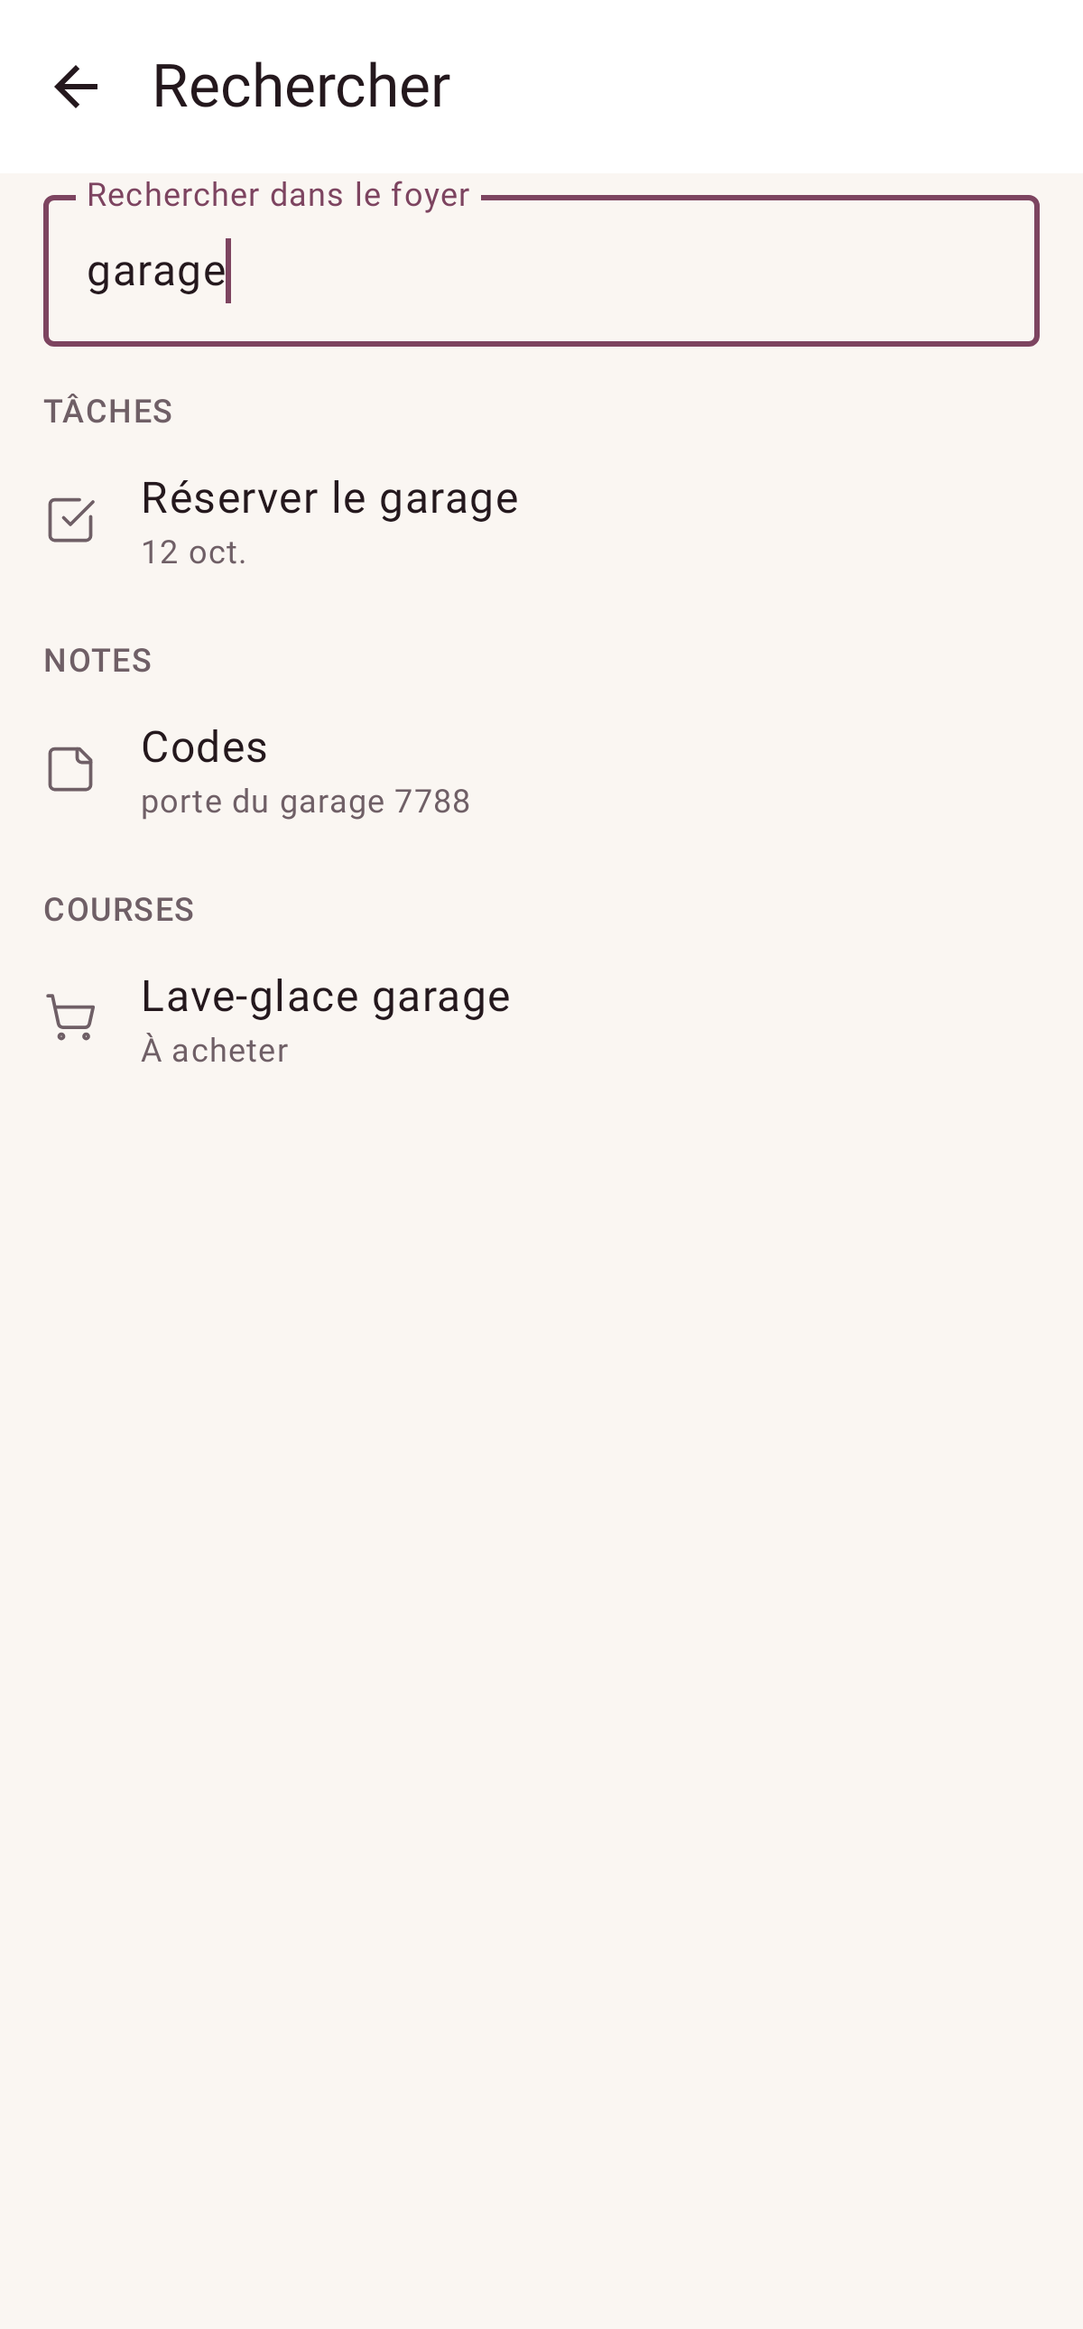
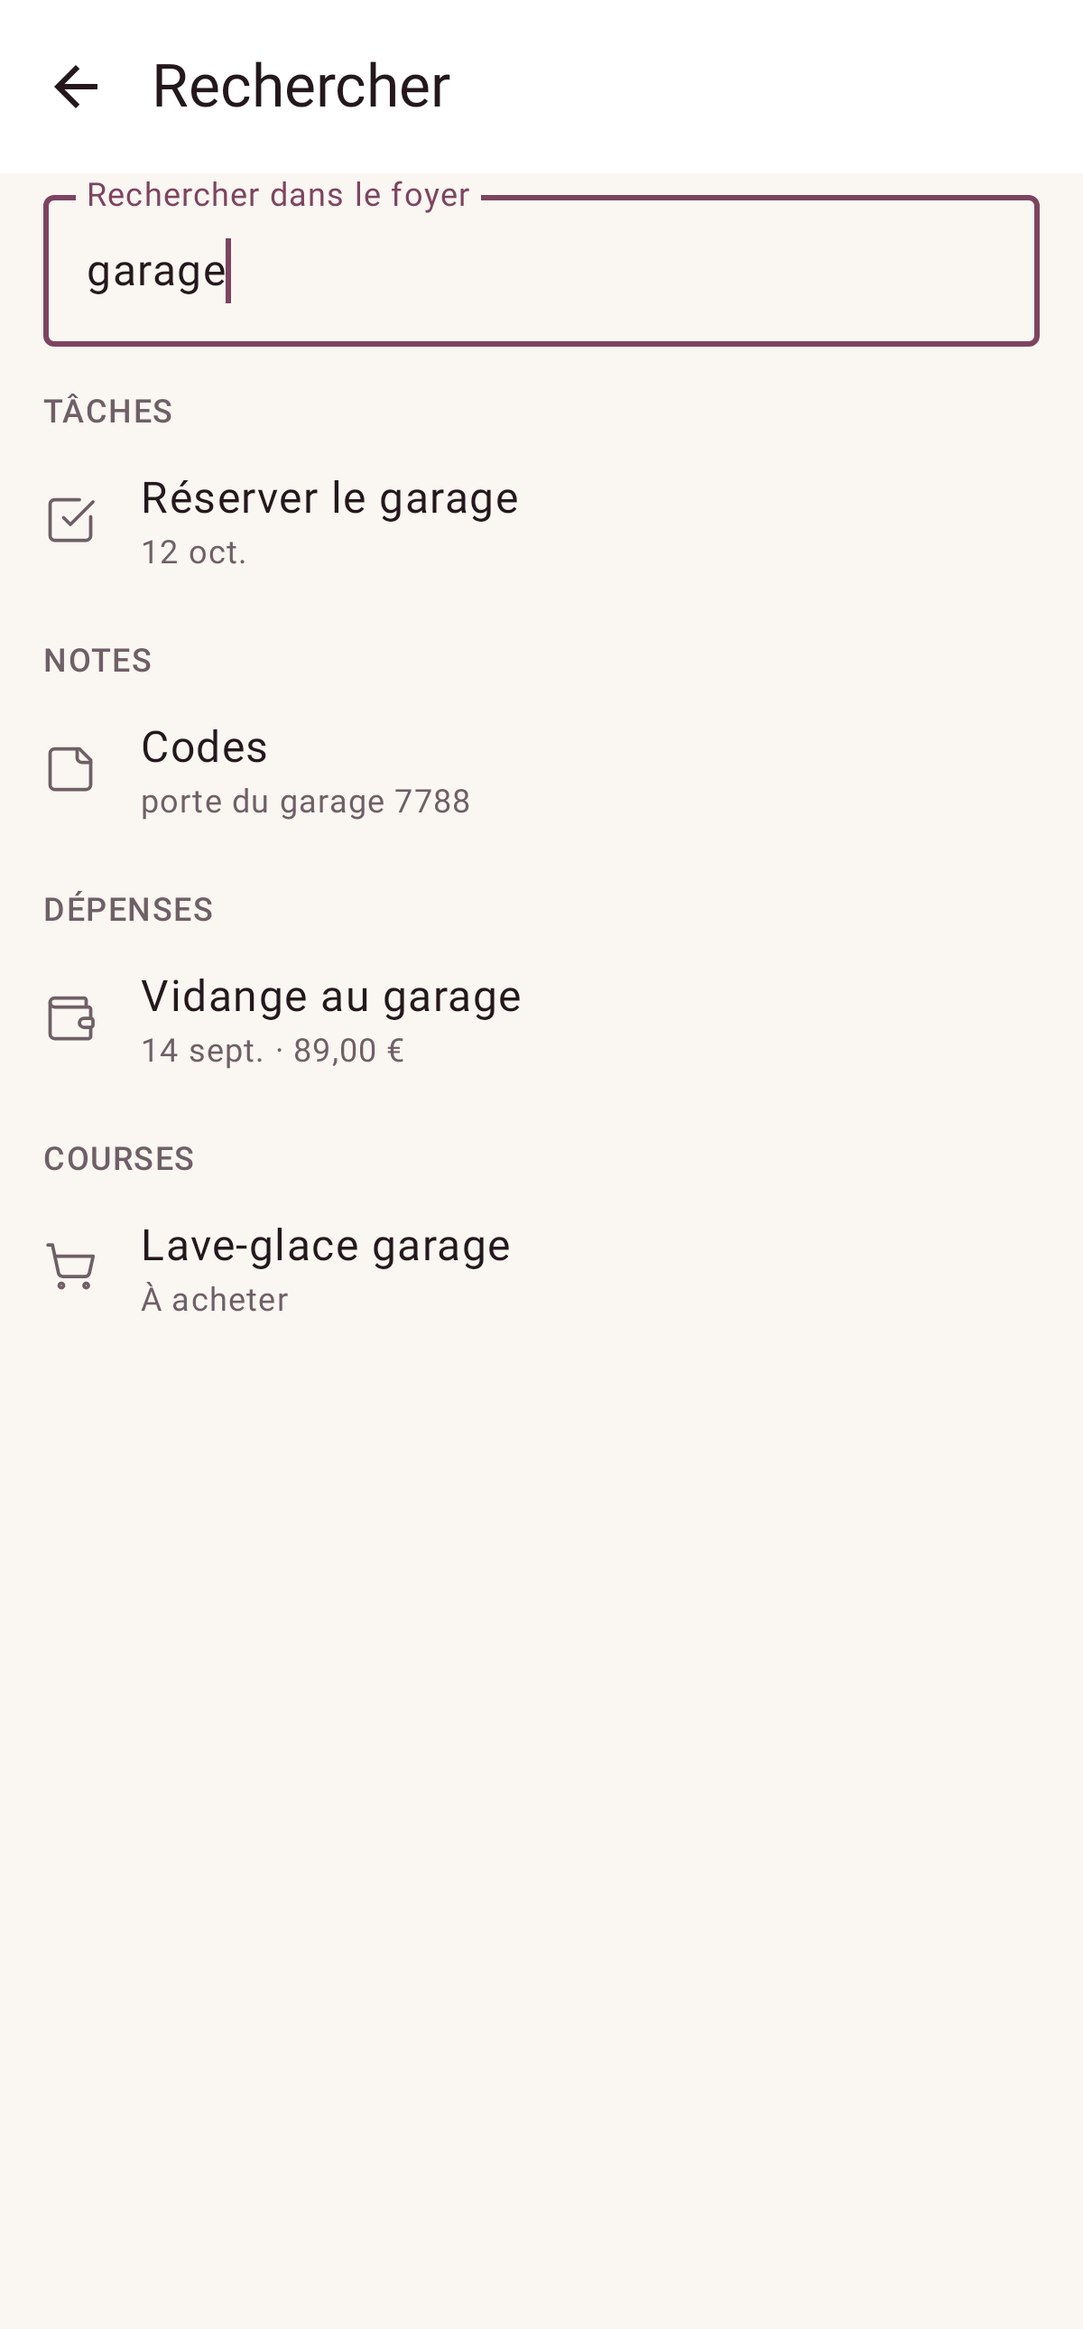
Audit du 9 octobre : icônes des dates, mois de la dépense, focus après « / »
- Android : icône au trait par type de date importante (liste et « Dates à venir »).
- Android : une dépense trouvée par la recherche ouvre son mois (argument month).
- Web : recherche ouverte avec « / » sans focus : le focus revient au bouton « Rechercher ».

Claude-Session: https://claude.ai/code/session_015VHKVTPtEGJEjvAhjHkTaK

diff --git a/apps/android/app/src/main/java/app/tandem/foyer/ui/dates/DatesScreen.kt b/apps/android/app/src/main/java/app/tandem/foyer/ui/dates/DatesScreen.kt
@@ -14,6 +14,7 @@ import androidx.compose.foundation.layout.heightIn
 import androidx.compose.foundation.layout.imePadding
 import androidx.compose.foundation.layout.navigationBarsPadding
 import androidx.compose.foundation.layout.padding
+import androidx.compose.foundation.layout.size
 import androidx.compose.foundation.lazy.LazyColumn
 import androidx.compose.foundation.lazy.items
 import androidx.compose.foundation.rememberScrollState
@@ -49,6 +50,7 @@ import androidx.compose.runtime.remember
 import androidx.compose.runtime.setValue
 import androidx.compose.ui.Alignment
 import androidx.compose.ui.Modifier
+import androidx.compose.ui.res.painterResource
 import androidx.compose.ui.res.pluralStringResource
 import androidx.compose.ui.res.stringResource
 import androidx.compose.ui.semantics.heading
@@ -129,6 +131,24 @@ private data class Draft(
     val repeatsYearly: Boolean,
     val remindDaysBefore: Int,
 )
+
+/** Icône du type de date, comme sur le site (décorative : le type est écrit à côté). */
+@Composable
+internal fun DateKindIcon(kind: String) {
+    Icon(
+        painterResource(
+            when (kind) {
+                "BIRTHDAY" -> R.drawable.ic_drawer_cake
+                "ANNIVERSARY" -> R.drawable.ic_date_anniversary
+                "MAINTENANCE" -> R.drawable.ic_date_maintenance
+                else -> R.drawable.ic_date_other
+            },
+        ),
+        contentDescription = null,
+        tint = MaterialTheme.colorScheme.onSurfaceVariant,
+        modifier = Modifier.size(20.dp),
+    )
+}
 
 @Composable
 private fun kindLabel(kind: String) = stringResource(
@@ -243,7 +263,8 @@ fun DatesScreen(vm: DatesViewModel, onBack: () -> Unit, onMessage: (String) -> U
                     enabled = !state.offline,
                     modifier = Modifier.fillMaxWidth(),
                 ) {
-                    Row(Modifier.padding(16.dp), verticalAlignment = Alignment.CenterVertically) {
+                    Row(Modifier.padding(16.dp), verticalAlignment = Alignment.CenterVertically, horizontalArrangement = Arrangement.spacedBy(12.dp)) {
+                        DateKindIcon(d.kind)
                         Column(Modifier.weight(1f), verticalArrangement = Arrangement.spacedBy(2.dp)) {
                             Text(d.title, style = MaterialTheme.typography.titleMedium, fontWeight = FontWeight.Medium)
                             Text(
@@ -413,7 +434,8 @@ fun UpcomingDates(remote: DatesRemote, refreshKey: Any?, onOpen: () -> Unit) {
     OutlinedCard(onClick = onOpen, modifier = Modifier.fillMaxWidth()) {
         Column(Modifier.padding(16.dp), verticalArrangement = Arrangement.spacedBy(8.dp)) {
             soon.forEach { d ->
-                Row(verticalAlignment = Alignment.CenterVertically) {
+                Row(verticalAlignment = Alignment.CenterVertically, horizontalArrangement = Arrangement.spacedBy(12.dp)) {
+                    DateKindIcon(d.kind)
                     Text(d.title, style = MaterialTheme.typography.bodyLarge, modifier = Modifier.weight(1f))
                     Text(
                         whenText(d.daysLeft ?: 0),

diff --git a/apps/android/app/src/test/java/app/tandem/foyer/ui/ExpensesScreenTest.kt b/apps/android/app/src/test/java/app/tandem/foyer/ui/ExpensesScreenTest.kt
@@ -28,6 +28,7 @@ import okhttp3.mockwebserver.MockResponse
 import okhttp3.mockwebserver.MockWebServer
 import okhttp3.mockwebserver.RecordedRequest
 import org.junit.After
+import org.junit.Assert.assertEquals
 import org.junit.Rule
 import org.junit.Test
 import org.junit.runner.RunWith
@@ -46,11 +47,13 @@ class ExpensesScreenTest {
     private val month = YearMonth.now().toString()
     private val g = Fixtures.GRACE
     private val n = Fixtures.NICOLAS
+    private val paths = java.util.concurrent.CopyOnWriteArrayList<String>()
 
     private val server = MockWebServer().apply {
         dispatcher = object : Dispatcher() {
             override fun dispatch(request: RecordedRequest): MockResponse {
                 val path = request.path.orEmpty()
+                paths += path
                 val body = when {
                     "/expenses/summary" in path -> """{"month":"$month","commonCents":8500,"mineCents":1200,
                         "members":[{"memberId":"$g","weight":1,"balanceCents":4250,"paidCents":8500,"shareCents":4250},
@@ -114,5 +117,15 @@ class ExpensesScreenTest {
         render(dark = true)
         compose.onNodeWithText("Nicolas doit", substring = true).assertIsDisplayed()
         compose.onRoot().captureRoboImage("../../../docs/screenshots/android/expenses-dark.png")
+    }
+
+    @Test
+    fun ouvert_sur_un_autre_mois() {
+        // Depuis la recherche : le mois de la dépense, pas le mois en cours.
+        val remote = ExpensesRemote(ApiClient.create(server.url("/").toString(), FakeTokenStore()), db, context.cacheDir)
+        runBlocking { db.households().insertHousehold(HouseholdEntity(Fixtures.HOUSEHOLD, "Grace & Nico", "Europe/Brussels", g)) }
+        val vm = ExpensesViewModel(remote, YearMonth.of(2025, 3))
+        assertEquals(YearMonth.of(2025, 3), vm.state.value.month)
+        compose.waitUntil(5_000) { paths.any { "month=2025-03" in it } }
     }
 }

diff --git a/apps/android/app/src/test/java/app/tandem/foyer/ui/SearchScreenTest.kt b/apps/android/app/src/test/java/app/tandem/foyer/ui/SearchScreenTest.kt
@@ -33,7 +33,7 @@ import org.junit.Test
 import org.junit.runner.RunWith
 import org.robolectric.annotation.Config
 
-/** Recherche globale (API simulée) : résultats groupés, une tâche ouvre son occurrence. */
+/** Recherche globale (API simulée) : résultats groupés, une tâche ouvre son occurrence, une dépense son mois. */
 @RunWith(AndroidJUnit4::class)
 @org.robolectric.annotation.GraphicsMode(org.robolectric.annotation.GraphicsMode.Mode.NATIVE)
 @Config(qualifiers = "fr-rFR-w400dp-h860dp-xxhdpi")
@@ -50,7 +50,7 @@ class SearchScreenTest {
                 return MockResponse().setHeader("content-type", "application/json").setBody(
                     """{"tasks":[{"occurrenceId":"o1","title":"Réserver le garage","date":"2026-10-12","done":false}],
                     "notes":[{"id":"n1","title":"Codes","snippet":"porte du garage 7788"}],
-                    "dates":[],"expenses":[],"shopping":[{"id":"s1","text":"Lave-glace garage","done":false}]}""",
+                    "dates":[],"expenses":[{"id":"e1","title":"Vidange au garage","date":"2026-09-14","amountCents":8900}],"shopping":[{"id":"s1","text":"Lave-glace garage","done":false}]}""",
                 )
             }
         }
@@ -79,7 +79,9 @@ class SearchScreenTest {
         compose.onNodeWithText("À acheter").assertIsDisplayed()
         compose.onRoot().captureRoboImage("../../../docs/screenshots/android/search.png")
         compose.onNodeWithText("Réserver le garage").performClick()
-        assertEquals(listOf<SearchTarget>(SearchTarget.Task("o1")), opened)
+        // Une dépense ouvre le mois de la dépense, pas le mois en cours.
+        compose.onNodeWithText("Vidange au garage").performClick()
+        assertEquals(listOf(SearchTarget.Task("o1"), SearchTarget.Page("expenses?month=2026-09")), opened)
         assertTrue(paths.single(), paths.single().endsWith("/search?q=garage"))
     }
 }

diff --git a/apps/android/app/src/main/java/app/tandem/foyer/ui/navigation/AppNavHost.kt b/apps/android/app/src/main/java/app/tandem/foyer/ui/navigation/AppNavHost.kt
@@ -638,13 +638,17 @@ private fun MainScaffold(
                 )
             }
             composable(
-                "expenses?title={title}&category={category}",
+                "expenses?title={title}&category={category}&month={month}",
                 arguments = listOf(
                     navArgument("title") { type = NavType.StringType; nullable = true },
                     navArgument("category") { type = NavType.StringType; nullable = true },
+                    // Mois à ouvrir (AAAA-MM), par exemple depuis la recherche.
+                    navArgument("month") { type = NavType.StringType; nullable = true },
                 ),
             ) { entry ->
-                val expensesVm: ExpensesViewModel = viewModel(factory = viewModelFactory { initializer { ExpensesViewModel(container.expenses) } })
+                val month = entry.arguments?.getString("month")
+                    ?.let { runCatching { java.time.YearMonth.parse(it) }.getOrNull() } ?: java.time.YearMonth.now()
+                val expensesVm: ExpensesViewModel = viewModel(factory = viewModelFactory { initializer { ExpensesViewModel(container.expenses, month) } })
                 val members = state.household?.members.orEmpty()
                 ExpensesScreen(
                     expensesVm,

diff --git a/apps/web/src/components/ui/dialog.tsx b/apps/web/src/components/ui/dialog.tsx
@@ -19,6 +19,7 @@ export function DialogContent({
   closeLabel,
   className,
   onOpenAutoFocus,
+  fallbackFocus,
   children,
 }: {
   title: string;
@@ -27,6 +28,8 @@ export function DialogContent({
   className?: string;
   /** Focus initial personnalisé (le focus revient quand même à l'élément d'origine). */
   onOpenAutoFocus?: (event: Event) => void;
+  /** Élément à focaliser à la fermeture quand rien ne l'était à l'ouverture (raccourci clavier). */
+  fallbackFocus?: () => HTMLElement | null;
   children: React.ReactNode;
 }) {
   // Sans Dialog.Trigger (ouverture par état, raccourci), Radix ne sait pas où rendre le focus :
@@ -41,8 +44,12 @@ export function DialogContent({
           onOpenAutoFocus?.(e);
         }}
         onCloseAutoFocus={(e) => {
-          const el = returnTo.current;
-          if (el && el !== document.body && document.contains(el)) {
+          const active = returnTo.current;
+          const el =
+            active && active !== document.body && document.contains(active)
+              ? active
+              : (fallbackFocus?.() ?? null);
+          if (el) {
             e.preventDefault();
             el.focus();
           }

diff --git a/apps/android/app/src/main/java/app/tandem/foyer/ui/search/SearchScreen.kt b/apps/android/app/src/main/java/app/tandem/foyer/ui/search/SearchScreen.kt
@@ -58,6 +58,9 @@ sealed interface SearchTarget {
     data class Page(val route: String) : SearchTarget
 }
 
+/** Écran Dépenses ouvert sur le mois de la dépense (`date` au format AAAA-MM-JJ). */
+fun expenseRoute(date: String) = "expenses?month=" + date.take(7)
+
 /** Recherche globale : tâches, notes, dates, dépenses et courses du foyer (en ligne). */
 @OptIn(ExperimentalMaterial3Api::class)
 @Composable
@@ -144,7 +147,7 @@ fun SearchScreen(remote: SearchRemote, onBack: () -> Unit, onOpen: (SearchTarget
                             R.drawable.ic_drawer_wallet,
                             e.title,
                             "${LocalDate.parse(e.date).format(dayFormat)} · ${Money.format(e.amountCents, locale)}",
-                        ) { onOpen(SearchTarget.Page("expenses")) }
+                        ) { onOpen(SearchTarget.Page(expenseRoute(e.date))) }
                     }
                     group(R.string.search_shopping, r.shopping, { it.id }) { s ->
                         Result(R.drawable.ic_share_cart, s.text, if (s.done) inCart else toBuy) { onOpen(SearchTarget.Page("shopping")) }

diff --git a/apps/web/src/components/app/app-shell.tsx b/apps/web/src/components/app/app-shell.tsx
@@ -146,6 +146,7 @@ export function AppShell({ children }: { children: ReactNode }) {
         <button
           type="button"
           onClick={() => setSearch(true)}
+          data-search-trigger
           aria-keyshortcuts="/"
           className="mb-2 flex h-11 items-center justify-center gap-3 rounded-md border border-border px-3 text-[0.9375rem] text-text-muted transition-colors hover:bg-surface-muted hover:text-text xl:justify-start"
         >
@@ -192,6 +193,7 @@ export function AppShell({ children }: { children: ReactNode }) {
           <button
             type="button"
             onClick={() => setSearch(true)}
+            data-search-trigger
             aria-label={t('search.title')}
             className="-mr-2 inline-flex size-11 items-center justify-center rounded-md text-text-muted hover:bg-surface-muted hover:text-text"
           >

diff --git a/apps/web/e2e/search.spec.ts b/apps/web/e2e/search.spec.ts
@@ -48,4 +48,11 @@ test('recherche globale : tâches, notes et courses ; un résultat ouvre la bonn
   await expect(dialog.getByRole('searchbox')).toBeFocused();
   await page.keyboard.press('Escape');
   await expect(open).toBeFocused();
+
+  // Ouverte avec « / » alors que rien n'avait le focus : il revient au bouton « Rechercher ».
+  await page.evaluate(() => (document.activeElement as HTMLElement | null)?.blur());
+  await page.keyboard.press('/');
+  await expect(dialog.getByRole('searchbox')).toBeFocused();
+  await page.keyboard.press('Escape');
+  await expect(open).toBeFocused();
 });

diff --git a/apps/android/app/src/main/java/app/tandem/foyer/ui/expenses/ExpensesScreen.kt b/apps/android/app/src/main/java/app/tandem/foyer/ui/expenses/ExpensesScreen.kt
@@ -128,8 +128,9 @@ data class ExpensesState(
     val saving: Boolean = false,
 )
 
-class ExpensesViewModel(private val remote: ExpensesRemote) : ViewModel() {
-    private val _state = MutableStateFlow(ExpensesState())
+/** `initialMonth` : mois affiché à l'ouverture (ex. celui d'une dépense trouvée par la recherche). */
+class ExpensesViewModel(private val remote: ExpensesRemote, initialMonth: YearMonth = YearMonth.now()) : ViewModel() {
+    private val _state = MutableStateFlow(ExpensesState(month = initialMonth))
     val state: StateFlow<ExpensesState> = _state
 
     init {

diff --git a/apps/web/src/components/app/global-search.tsx b/apps/web/src/components/app/global-search.tsx
@@ -61,6 +61,12 @@ export function GlobalSearch({
           e.preventDefault();
           input.current?.focus();
         }}
+        // Ouverte avec « / » sans élément focalisé : le focus revient au bouton « Rechercher » visible.
+        fallbackFocus={() =>
+          Array.from(document.querySelectorAll<HTMLElement>('[data-search-trigger]')).find(
+            (el) => el.offsetParent !== null,
+          ) ?? null
+        }
       >
         <input
           ref={input}

diff --git a/docs/audits/2026-10-09.md b/docs/audits/2026-10-09.md
@@ -7,7 +7,7 @@ description: Audit complet après le lot 4 (notes, dates, budgets par catégorie
 
 Grille : [Audit UI/UX](../audit-ui-ux.md). Procédure : skill `audit-ux`. Précédent :
 [audit du 8 octobre](2026-10-08.md). Les bloquants sont corrigés dans la même PR que ce rapport
-(#92) ; le reste est proposé dans la
+(#92) ; les améliorations A1 à A4 aussi, à la demande de l'utilisateur ; le reste est proposé dans la
 [roadmap](../roadmap.md#plan-uiux-et-fonctionnalités-octobre-2026), à prioriser ensemble.
 
 ## Ce qui a été passé
@@ -41,9 +41,9 @@ M (une demi-journée), L (plusieurs jours).
 | # | Plateforme | Écran | Constat | Correction proposée | Effort |
 |---|---|---|---|---|---|
 | A1 | App web | Menus, semaine vide | Bouton « Tout est déjà dans les courses » affiché grisé alors qu'il n'y a aucun repas (`mobile-light-meals-empty.png`) | **Fait dans #92** : bouton masqué tant que la semaine est vide | S |
-| A2 | Android | Dates importantes | Pas d'icône par type (anniversaire, entretien…), alors que le site en affiche une (`dates.png` contre `mobile-light-dates.png`) | Icônes au trait par type, comme le tiroir | S |
-| A3 | Android | Recherche → Dépenses | Un résultat de dépense ouvre le mois en cours, pas le mois de la dépense (le site, lui, ouvre le bon mois) | Passer le mois à l'écran Dépenses | S |
-| A4 | App web | Recherche ouverte avec « / » | Ouverte sans élément focalisé, elle rend le focus au document à la fermeture : acceptable, mais le prochain Tab repart du début de la page | Rendre le focus au bouton « Rechercher » de la navigation quand rien n'était focalisé | S |
+| A2 | Android | Dates importantes | Pas d'icône par type (anniversaire, entretien…), alors que le site en affiche une (`dates.png` contre `mobile-light-dates.png`) | **Fait dans #92** : icônes au trait par type (Lucide), liste et bloc « Dates à venir » (`dates.png`) | S |
+| A3 | Android | Recherche → Dépenses | Un résultat de dépense ouvre le mois en cours, pas le mois de la dépense (le site, lui, ouvre le bon mois) | **Fait dans #92** : le mois est passé à l'écran Dépenses (`SearchScreenTest`, `ExpensesScreenTest`) | S |
+| A4 | App web | Recherche ouverte avec « / » | Ouverte sans élément focalisé, elle rend le focus au document à la fermeture : acceptable, mais le prochain Tab repart du début de la page | **Fait dans #92** : le focus revient au bouton « Rechercher » visible (`e2e/search.spec.ts`) | S |
 | A5 | Site vitrine | Accueil | Les titres s'animent à l'arrivée : une capture trop rapide les montre flous. Pas un défaut visible à l'usage ; `prefers-reduced-motion` est respecté (audit du 8 octobre) | Rien à faire ; attendre 1,5 s dans les captures du site | — |
 
 ### OK

diff --git a/docs/roadmap.md b/docs/roadmap.md
@@ -135,11 +135,11 @@ Validé par l'utilisateur, dans cet ordre :
 - [x] **Audit UI/UX complet** après le lot 4 (M) (#92) : [rapport du 9 octobre](audits/2026-10-09.md), 3 bloquants corrigés
 - [x] **Tests sur émulateur** : tiroir et bord à bord, API 34 et 35 (S) 🤖 (#92)
 
-Découvert par l'audit du 9 octobre (à prioriser ensemble) :
+Découvert par l'audit du 9 octobre (validé par l'utilisateur) :
 
-- [ ] Android : icône par type de date importante, comme le site (S) 🤖
-- [ ] Android : un résultat de recherche « Dépense » ouvre le mois de la dépense (S) 🤖
-- [ ] Web : recherche ouverte avec « / » sans focus → rendre le focus au bouton « Rechercher » (S) 🌐
+- [x] Android : icône par type de date importante, comme le site (S) 🤖 (#92)
+- [x] Android : un résultat de recherche « Dépense » ouvre le mois de la dépense (S) 🤖 (#92)
+- [x] Web : recherche ouverte avec « / » sans focus → rendre le focus au bouton « Rechercher » (S) 🌐 (#92)
 
 Idées proposées, non retenues pour l'instant : idées cadeaux liées aux dates, échéances de
 contrats, planning du dimanche, lien « baby-sitter », packs de départ.
